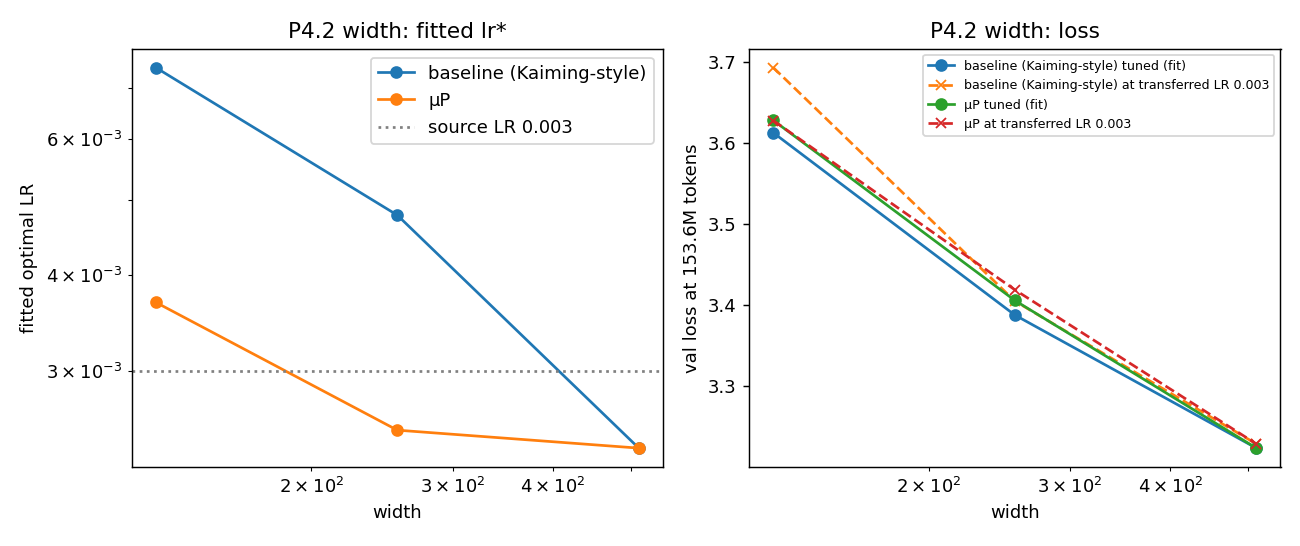
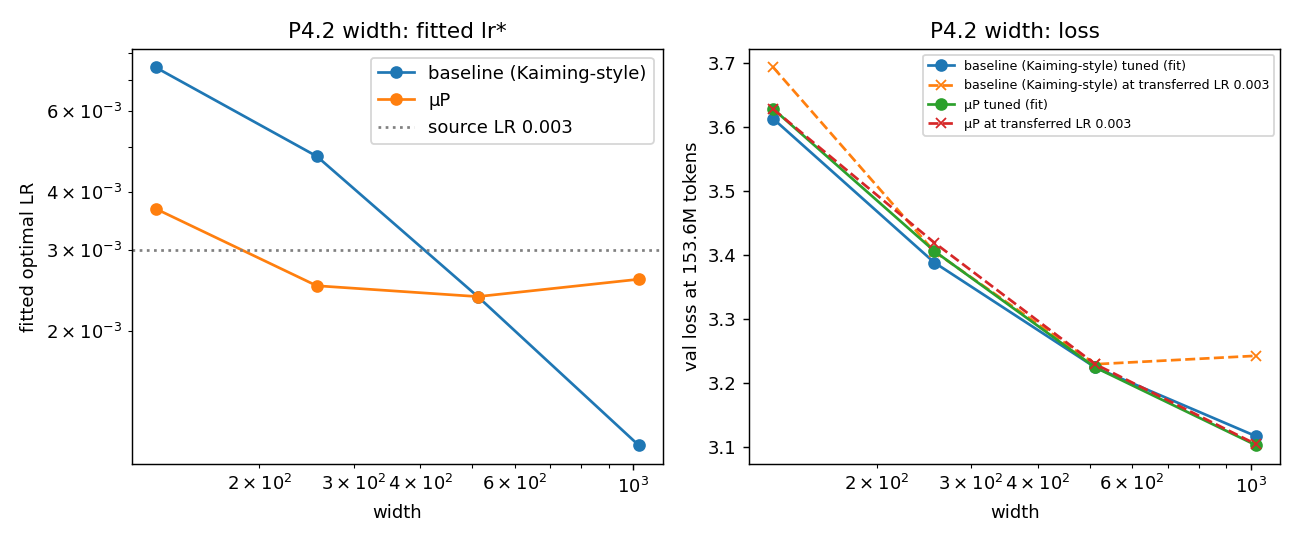
A2 WRITEUP: P4.2(c) held-out width 1024; figures with width 1024

diff --git a/experiments/a2/WRITEUP.md b/experiments/a2/WRITEUP.md
@@ -646,4 +646,40 @@ Reading it:
 
 ### (c) Held-out width 1024 (8 new runs)
 
-Running now; results and the direct-transfer versus power-law comparison will be filled in below.
+Two ways to pick the learning rate for a width we had not trained: (i) **direct transfer**, reuse
+the source value 0.003; (ii) **power law**, extrapolate the fitted optima from widths 128/256/512
+(baseline 0.0014, µP 0.0018 — both recorded before launching). Each policy also got a small local
+sweep so we could see where the true optimum sits.
+
+| policy | lr 0.00075 | lr 0.0014 / 0.0018 (power-law pick) | lr 0.0015 | lr 0.003 (direct transfer) | fitted lr* | fitted loss |
+|---|---|---|---|---|---|---|
+| baseline | 3.139 | **3.114** | 3.135 | 3.242 | 0.0011 | 3.116 |
+| µP | 3.240 | 3.111 | 3.124 | **3.104** | 0.0026 | 3.102 |
+
+**Answer.**
+
+1. **Baseline: the power law wins by a lot.** Direct transfer (0.003) is 0.128 worse than the
+   power-law pick, which landed on the best point we sampled. At width 1024 the baseline's
+   optimum has moved to roughly a third of the source value, exactly as the width^-0.82 trend said.
+2. **µP: direct transfer wins.** The source learning rate 0.003 is the best sampled point (3.104),
+   and the power-law pick is 0.007 behind. The extrapolated exponent (−0.31) over-corrected: the
+   µP optimum drifted at the *narrow* widths (128, 256), not between 512 and 1024. This matches the
+   mechanism in part (b): the fixed weight decay and the α-decay effects are largest when the width
+   ratio is far from 1 in the shrinking direction, not when the model grows.
+3. **The two choices reach the same place once each is tuned correctly.** Best baseline 3.114 versus
+   best µP 3.104: a 0.01 edge for µP at width 1024, versus the baseline's 0.015 edge at widths
+   128–256. Both are small compared with the 0.128 you lose by transferring the baseline naively.
+4. **Caveat.** The baseline's width-1024 curve is not smooth at the 0.02 level: learning rates
+   0.0014 and 0.0015 differ by only 7 % yet give 3.114 and 3.135, and the gap is present from step
+   300 onward rather than appearing late. The Assignment 1 noise floor for this family was
+   0.002–0.005, so at this width a single run resolves learning-rate differences of ~0.02 at best.
+   The headline comparisons above are 5–10× larger than that and stand; the fitted optimum
+   (0.0011) and the 0.007 µP power-law gap do not.
+
+Figures: `figures/p42_width.png` (fitted lr* and losses versus width, including 1024),
+`figures/p42_depth.png`, `figures/p41_width.png`, `figures/p41_depth.png`.
+
+**Rule of thumb from P4.2.** Transfer a learning rate upward in width with µP as-is. Transfer it
+with a standard parameterization only through a fitted power law. In either case, when you change
+width by more than 2× also revisit weight decay, because the learning-rate × weight-decay
+timescale is not what any of these prescriptions preserve.
